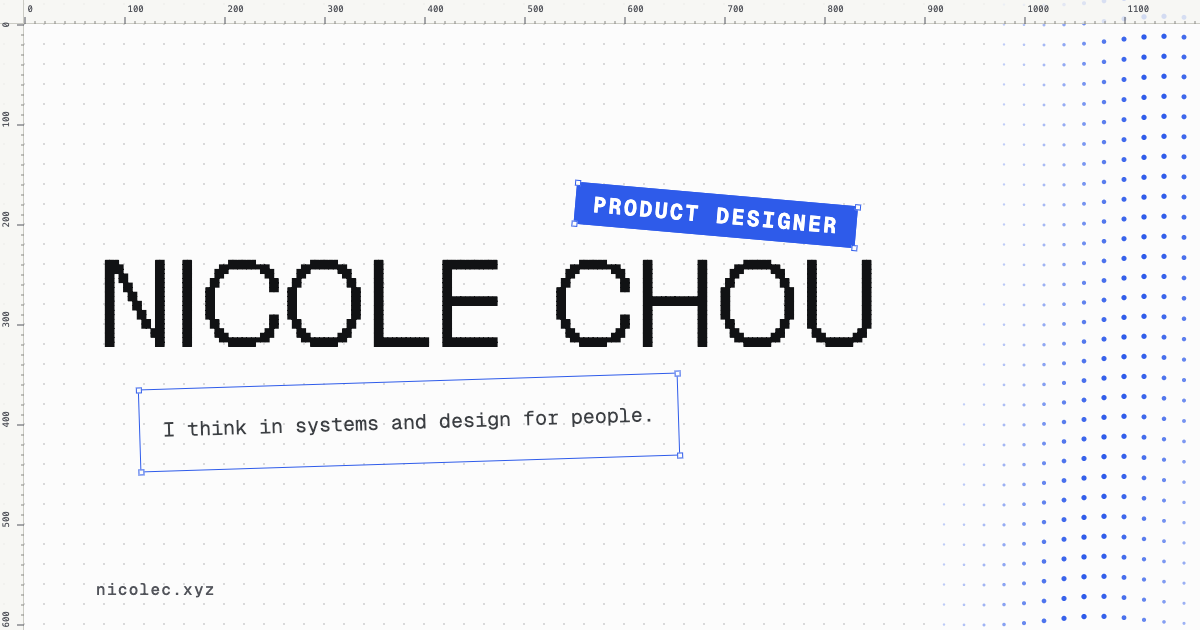
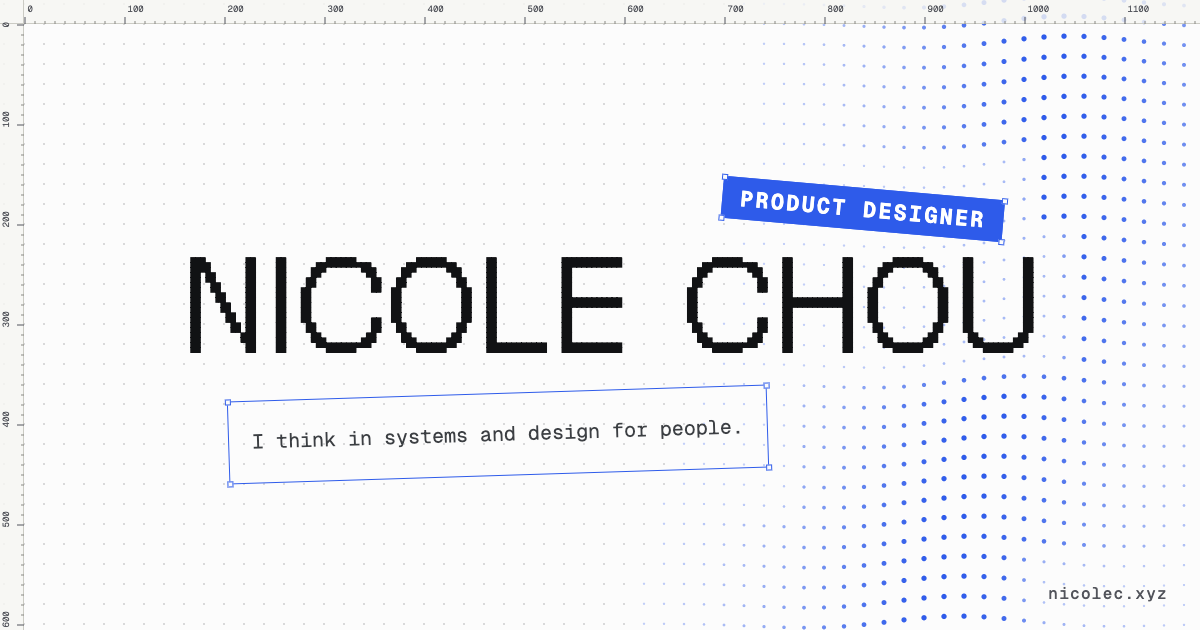
Social card: centred content, wave dims where it passes behind the text

diff --git a/index.html b/index.html
@@ -16,7 +16,7 @@
 <meta property="og:title" content="Nicole Chou — Product Designer">
 <meta property="og:description" content="I think in systems and design for people.">
 <meta property="og:url" content="https://nicolec.xyz/">
-<meta property="og:image" content="https://nicolec.xyz/assets/social-card.png">
+<meta property="og:image" content="https://nicolec.xyz/assets/social-card.png?v=e1c2c4e1">
 <meta property="og:image:width" content="1200">
 <meta property="og:image:height" content="630">
 <meta property="og:image:alt" content="Nicole Chou, product designer: I think in systems and design for people.">
